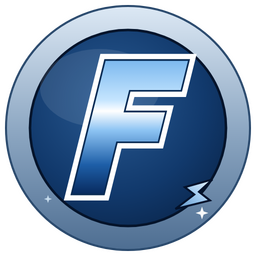
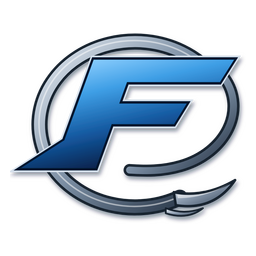
v0.1.6 : icône emblème F dans son @ (redessinée en vectoriel)
Claude-Session: https://claude.ai/code/session_01BTwBnbAephfKfbcMqkZNyv

diff --git a/CHANGELOG.md b/CHANGELOG.md
@@ -1,5 +1,9 @@
 # Journal des versions
 
+## 0.1.6
+
+- Icône : emblème « F » dans son @, redessiné en vectoriel d'après l'original (assets/emblem-F.svg).
+
 ## 0.1.5
 
 - Vrai logo FCDI : bannière haute définition et icône (roundel F) fournis par Franck.
